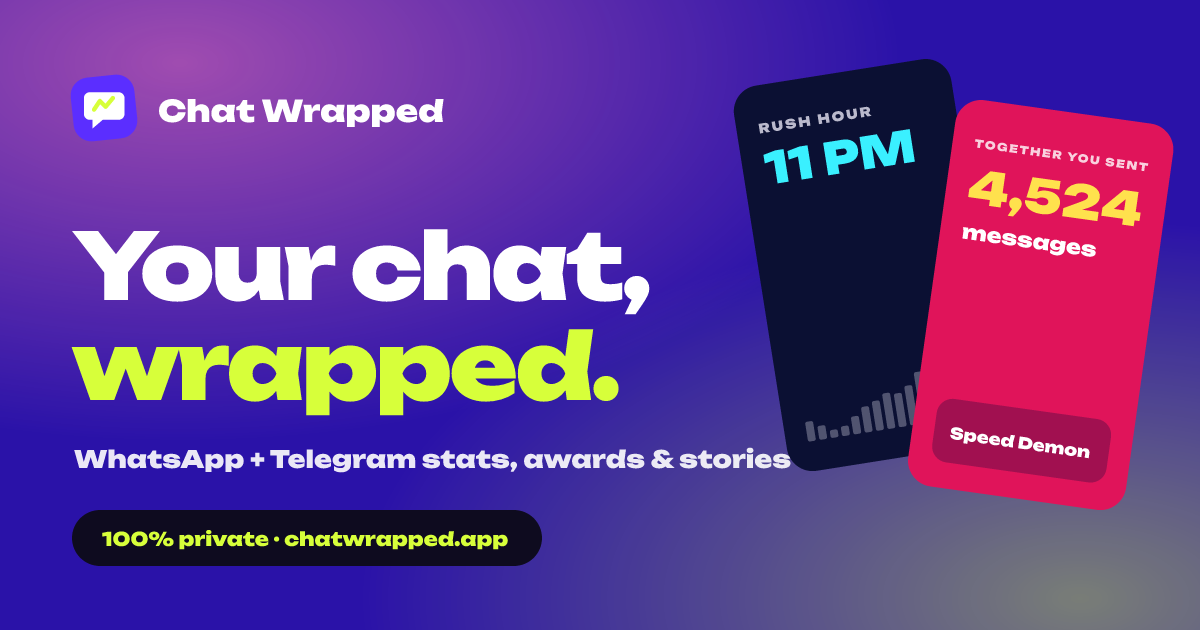
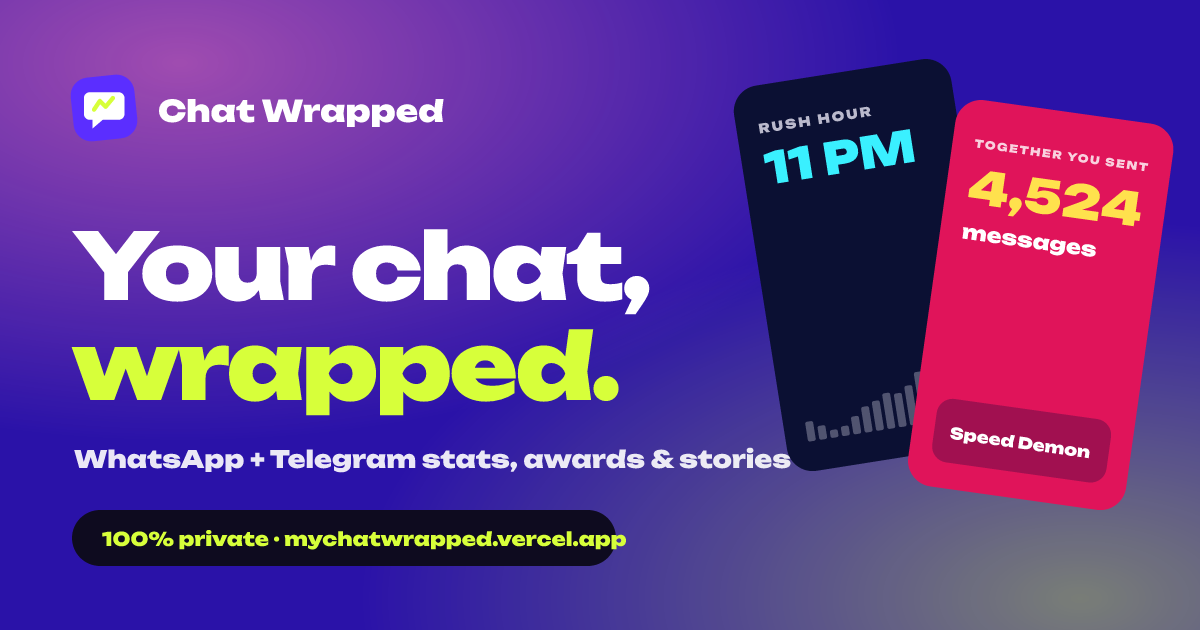
Use the live address mychatwrapped.vercel.app; English as default language
- siteUrl/displayUrl point to https://mychatwrapped.vercel.app (cards, link
  previews, Open Graph image regenerated; preview pill now sizes to its text)
- Card footer is two deliberate lines ("Made with…" / address) so long
  translations never wrap awkwardly
- Visitors start in English instead of the browser language; a language they
  pick is still remembered

Changed region(s): [[0.2158, 0.7841, 0.5242, 0.9048]]

diff --git a/src/components/cards/primitives.tsx b/src/components/cards/primitives.tsx
@@ -204,14 +204,19 @@ export function CardShell({
       <FitBody>{children}</FitBody>
       <div className="cw-card-footer">
         <span className="cw-logo" aria-hidden="true">
-          <LogoMark color={palette.fg} accent={palette.accent} />
+          <LogoMark color={palette.fg} accent={palette.accent} size={footer === 'cta' ? 16 : 20} />
         </span>
-        <span>
-          {footer === 'cta'
-            ? t('card.footer.cta', { url: APP_CONFIG.displayUrl })
-            : t('card.footer.made', { name: APP_CONFIG.name })}
-        </span>
-        {footer === 'default' && <span className="cw-footer-url">{APP_CONFIG.displayUrl}</span>}
+        {footer === 'cta' ? (
+          <span>{t('card.footer.cta', { url: APP_CONFIG.displayUrl })}</span>
+        ) : (
+          // Two deliberate lines, so long translations never wrap awkwardly next to the URL.
+          <span className="cw-footer-stack">
+            <span>{t('card.footer.made', { name: APP_CONFIG.name })}</span>
+            <span className="cw-footer-url" dir="ltr">
+              {APP_CONFIG.displayUrl}
+            </span>
+          </span>
+        )}
       </div>
     </div>
   )

diff --git a/src/i18n/index.tsx b/src/i18n/index.tsx
@@ -13,7 +13,7 @@ import { de, deAwards } from './de'
 import { en, type AwardTexts, type Dict, type DictKey } from './en'
 import { es, esAwards } from './es'
 import { fr, frAwards } from './fr'
-import { detectLang, isRtl, LANGS, PLURAL_ORDER, type Lang } from './lang'
+import { DEFAULT_LANG, isRtl, LANGS, PLURAL_ORDER, type Lang } from './lang'
 import { pt, ptAwards } from './pt'
 import { ru, ruAwards } from './ru'
 import { uz, uzAwards } from './uz'
@@ -112,14 +112,15 @@ interface I18nValue extends Translator {
 
 const I18nContext = createContext<I18nValue | null>(null)
 
+/** The language the visitor picked earlier, otherwise English (not the browser language). */
 function initialLang(): Lang {
   try {
     const saved = localStorage.getItem(STORAGE_KEY) as Lang | null
     if (saved && (LANGS as readonly string[]).includes(saved)) return saved
   } catch {
-    /* storage may be blocked; fall back to the browser language */
+    /* storage may be blocked; fall back to the default */
   }
-  return detectLang()
+  return DEFAULT_LANG
 }
 
 export function I18nProvider({ children, lang: fixedLang }: { children: ReactNode; lang?: Lang }) {

diff --git a/src/i18n/lang.ts b/src/i18n/lang.ts
@@ -34,13 +34,5 @@ export const PLURAL_ORDER: Record<Lang, Intl.LDMLPluralRule[]> = {
   ar: ['zero', 'one', 'two', 'few', 'many', 'other'],
 }
 
-/** Pick the best supported language from the browser settings. */
-export function detectLang(): Lang {
-  const prefs =
-    typeof navigator !== 'undefined' ? (navigator.languages ?? [navigator.language]) : []
-  for (const p of prefs) {
-    const base = p.toLowerCase().split('-')[0]
-    if ((LANGS as readonly string[]).includes(base)) return base as Lang
-  }
-  return 'en'
-}
+/** Every visitor starts in English; their own pick from the language menu is remembered. */
+export const DEFAULT_LANG: Lang = 'en'

diff --git a/src/config.ts b/src/config.ts
@@ -6,9 +6,9 @@ export const APP_CONFIG = {
   name: 'Chat Wrapped',
   shortName: 'Wrapped',
   /** Shown in small print on every card. Keep it short. */
-  displayUrl: 'chatwrapped.app',
+  displayUrl: 'mychatwrapped.vercel.app',
   /** Absolute URL used for Open Graph tags. */
-  siteUrl: 'https://chatwrapped.app',
+  siteUrl: 'https://mychatwrapped.vercel.app',
   description:
     'Turn your WhatsApp or Telegram chat into a funny, shareable story. 100% private: your chat never leaves your device.',
   /** Shown in the site footer and as the page author. */

diff --git a/src/index.css b/src/index.css
@@ -139,8 +139,17 @@ body {
   letter-spacing: 0.02em;
   color: var(--muted);
 }
+.cw-footer-stack {
+  display: flex;
+  flex-direction: column;
+  gap: 1px;
+  line-height: 1.25;
+  white-space: nowrap;
+}
 .cw-footer-url {
-  margin-inline-start: auto;
+  font-size: 11.5px;
+  color: var(--fg);
+  letter-spacing: 0;
 }
 
 /* ------------------------------------------------------------------ right-to-left & CJK */
